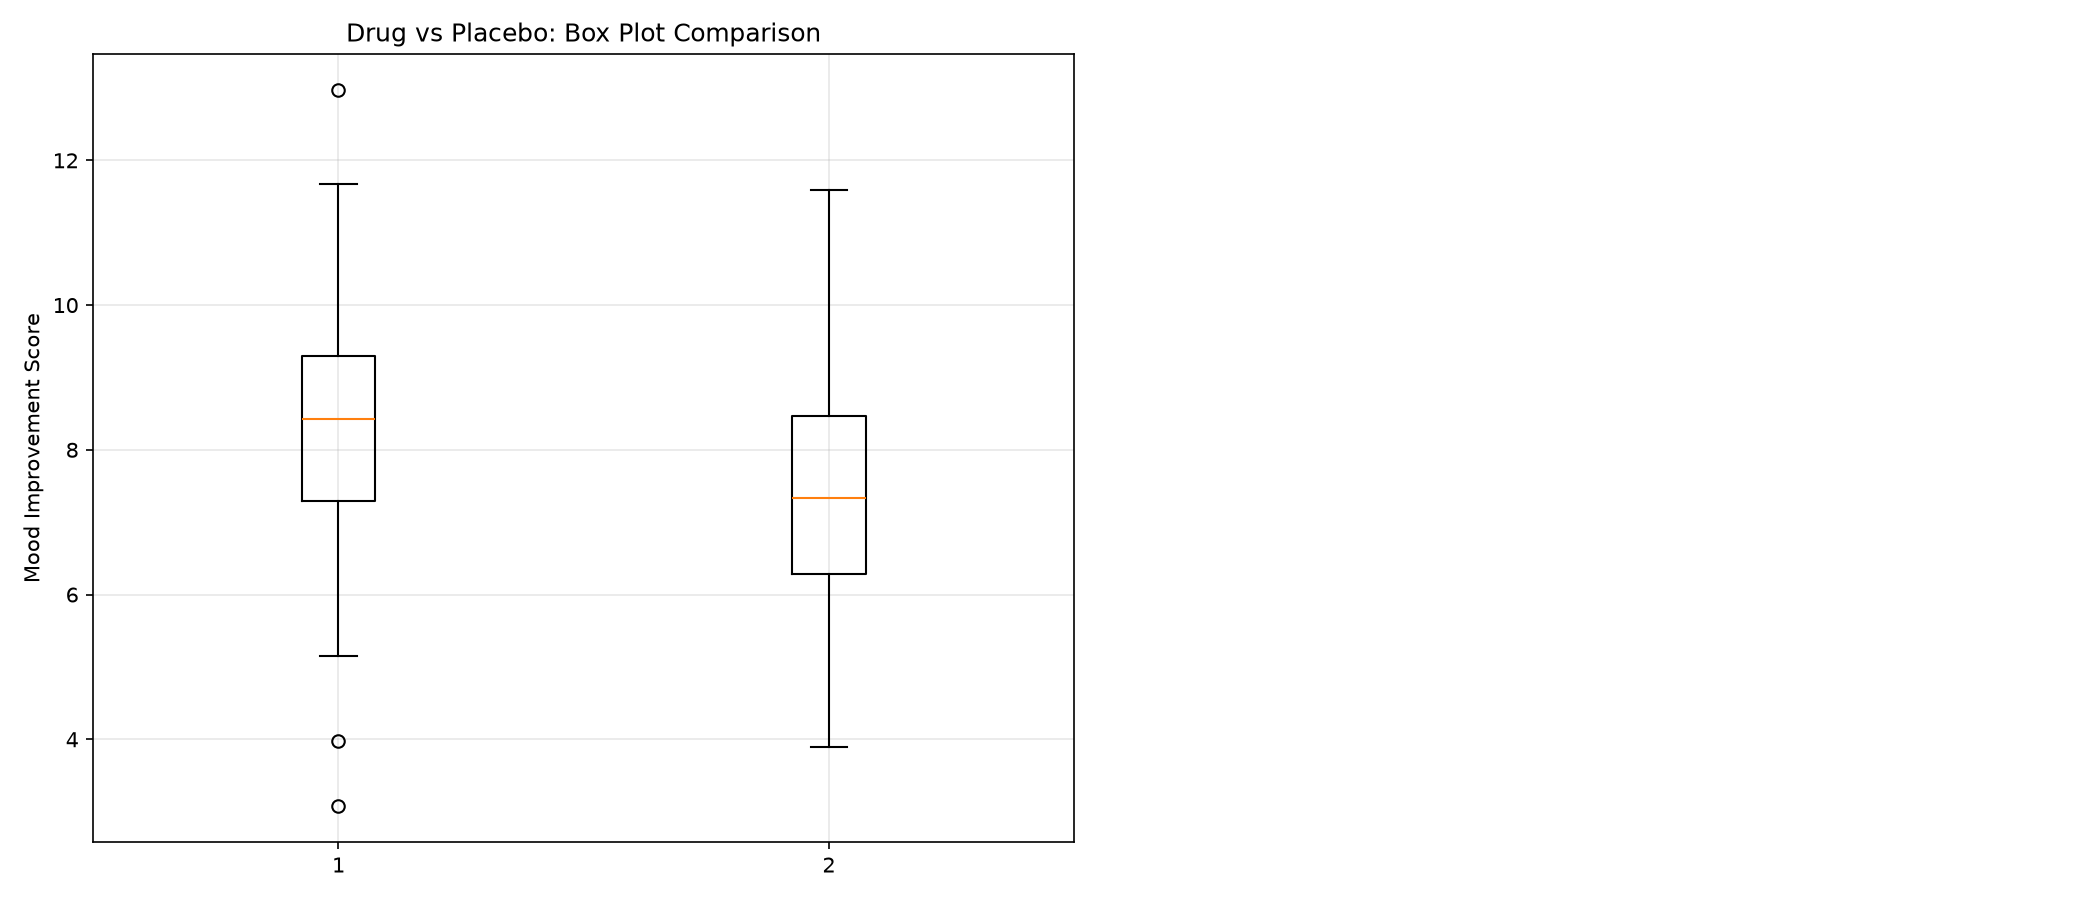
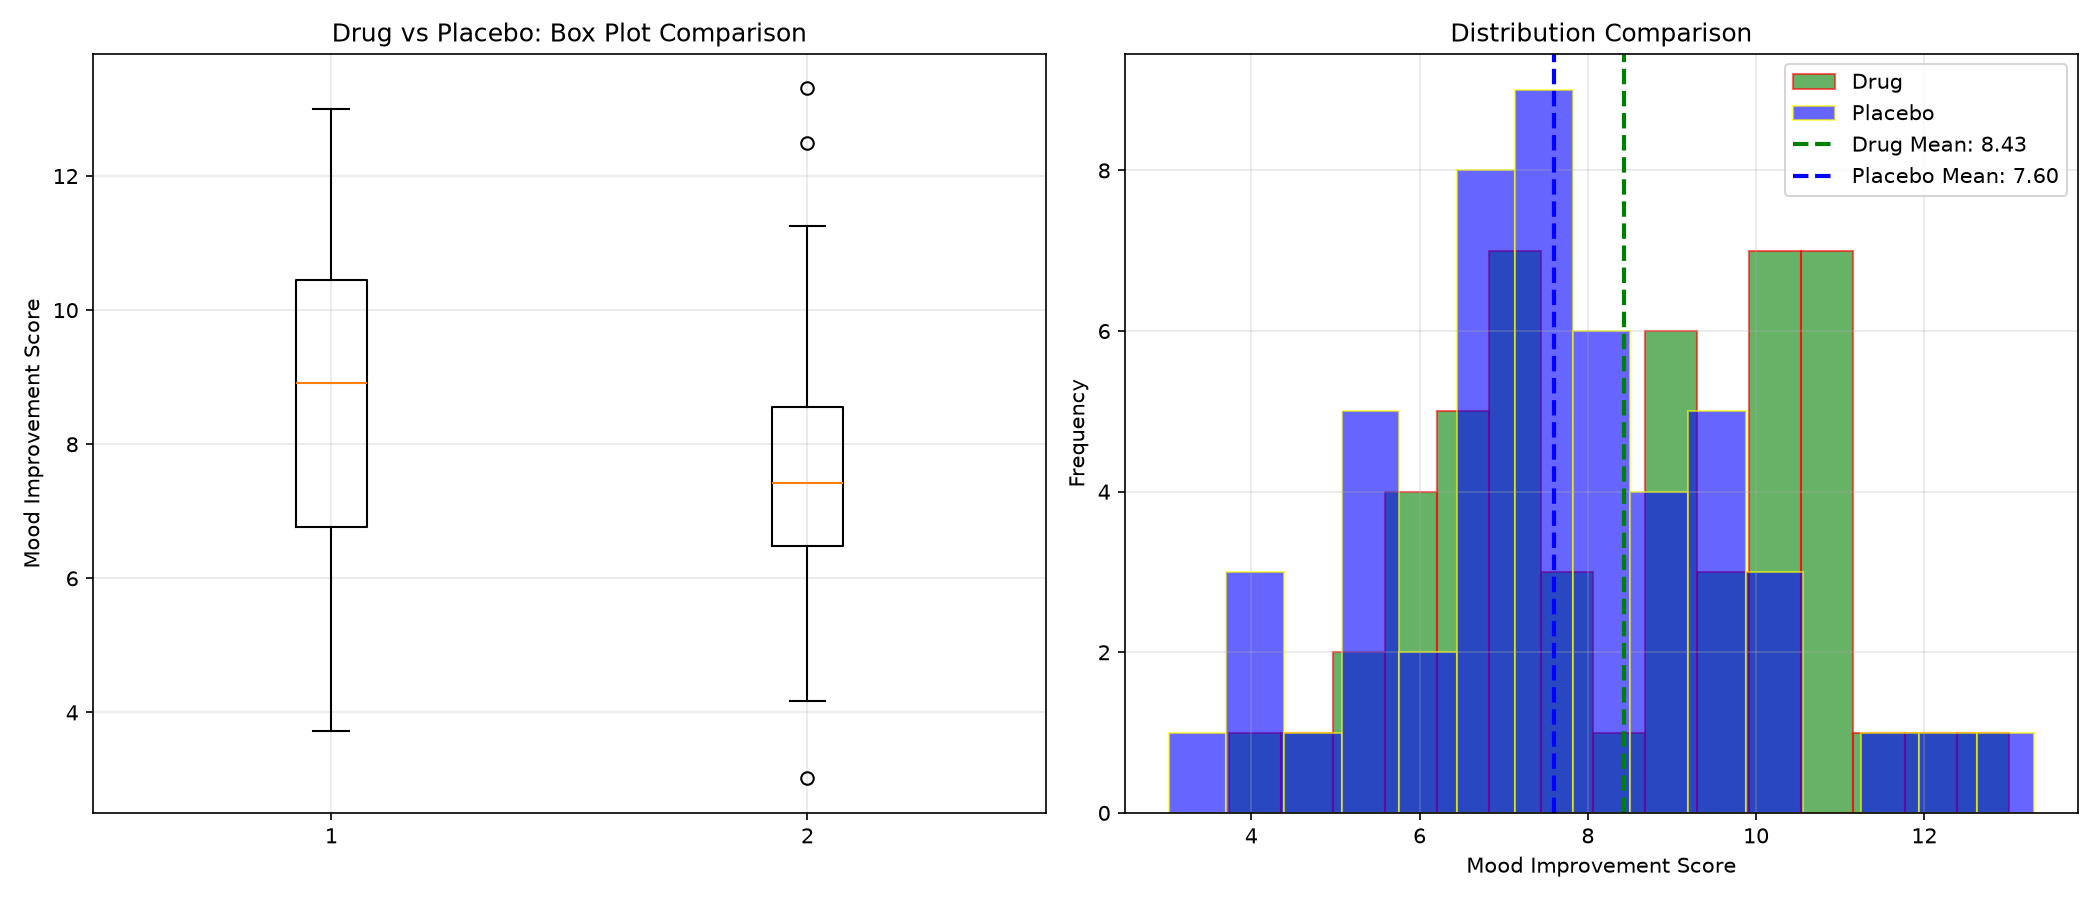
finished with p-value

diff --git a/data_science/lesson_4_statistics/lesson_2_hypothesis_my_test.py b/data_science/lesson_4_statistics/lesson_2_hypothesis_my_test.py
@@ -201,8 +201,16 @@ plt.title('Drug vs Placebo: Box Plot Comparison')
 plt.grid(True, alpha=0.3)
 
 # Plot 2: Distributions with means
-# plt.subplot(1, 2, 2)
-
+plt.subplot(1, 2, 2)
+plt.hist(drug_group, bins=15, alpha=0.6, label='Drug', color='green', edgecolor='red')
+plt.hist(placebo_group, bins=15, alpha=0.6, label='Placebo', color='blue', edgecolor='yellow')
+plt.axvline(np.mean(drug_group), color='green', linestyle='--', linewidth=2, label=f'Drug Mean: {np.mean(drug_group):.2f}')
+plt.axvline(np.mean(placebo_group), color='blue', linestyle='--', linewidth=2, label=f'Placebo Mean: {np.mean(placebo_group):.2f}')
+plt.xlabel('Mood Improvement Score')
+plt.ylabel('Frequency')
+plt.title('Distribution Comparison')
+plt.legend()
+plt.grid(True, alpha=0.3)
 
 plt.tight_layout()
 plt.savefig('/Users/andhar/desktop/my_garden_of_python/data_science/lesson_4_statistics/hyp_1_ttest.png', dpi=150)
@@ -210,18 +218,167 @@ print("✅ Visualization saved: hyp_1_ttest.png")
 plt.close()
 
 
+# ============================================================================
+# PART 8: UNDERSTANDING EFFECT SIZE
+# ============================================================================
+
+print("\n" + "=" * 81)
+print("PART 8: Effect Size (Cohen's d - Practical Significance)")
+print("=" * 81)
+
+print("""
+P-VALUE tells us: "Is the difference REAL?" (Statistical Significance)
+EFFECT SIZE tells us: "How BIG is the difference?" (Practical Significance)
+
+Example:
+- P-value = 0.001 (Very significant statistically!)
+- Cohen's d = 0.05 (But the actual difference is tiny)
+
+This happens with LARGE samples! 💡
+""")
+
+# Calculate Cohen's d
+pooled_std = np.sqrt(((len(drug_group) - 1) * np.std(drug_group, ddof=1) ** 2 + 
+                      (len(placebo_group) - 1) * np.std(placebo_group, ddof=1) ** 2) / 
+                     (len(drug_group) + len(placebo_group) - 2))
+
+cohens_d = (np.mean(drug_group) - np.mean(placebo_group)) / pooled_std
+
+print(f"\n📊 Effect Size (Cohen's d): {cohens_d:.4f}")
+
+if abs(cohens_d) < 2:
+   effect_interpretation = 'Small effect!'
+elif abs(cohens_d) < 0.5:
+   effect_interpretation = 'Small to medium effect'
+elif abs(cohens_d) < 0.8:
+   effect_interpretation = 'Medium effect'
+else:
+   effect_interpretation = 'Large effect'
+
+print(f"   Interpretation: {effect_interpretation}")
+
+print(f"""
+Remember:
+- Cohen's d = 0.2  → Small but real difference
+- Cohen's d = 0.5  → Medium difference
+- Cohen's d = 0.8  → Large difference
+
+Your effect size: {cohens_d:.4f} ({effect_interpretation})
+""")
+
+# ============================================================================
+# PART 9: TYPE I AND TYPE II ERRORS
+# ============================================================================
+
+print("\n" + "=" * 81)
+print("Part 9: The Two Types of Errors (Important!)")
+print("=" * 81)
+
+print("""
+🚨 TYPE I ERROR (False Positive - "Crying wolf!")
+   You claim the drug works (reject H₀)
+   But actually, it doesn't (H₀ is true)
+
+   The p-value threshold (0.05) is designed to limit this!
+   If you use p < 0.05, you have only 5% chance of Type I error
+
+🚨 TYPE II ERROR (False Negative - "Missing the wolf!")
+   You claim the drug doesn't work (fail to reject H₀)
+   But actually, it does work (H₁ is true)
+
+   This happens with small samples!
+   With n=20, you might miss a real effect
+
+---
+
+THE TRADEOFF:
+Make the threshold stricter (p < 0.01) → Reduce Type I error but increase Type II
+Make the threshold looser (p < 0.10) → Reduce Type II error but increase Type I
+
+Professional standard: p < 0.05 (good balance)
+Medical studies: p < 0.01 (stricter, more certain)
+Exploratory research: p < 0.10 (looser, find possibilities)
+""")
 
 
+# ============================================================================
+# PART 10: REAL WORLD CAUTION
+# ============================================================================
+
+print("\n" + "=" * 81)
+print("Part 10: Important Cautions (The Truth About P-Values)")
+print("=" * 81)
+
+print("""
+⚠ COMMON MISCONCEPTIONS:
+
+1⃣ "P-value < 0.05 means there's only 5% chance I'm wrong"
+   ❌ WRONG! It's about the probability of the DATA, not your conclusion
+
+2⃣ "Non-significant result (p > 0.05) means the effect doesn't exist"
+   ❌ WRONG! It might exist, but you need more data to detect it
+
+3⃣ "You should report only p-values"
+   ❌ WRONG! Always report effect size, confidence intervals, and sample size
+
+4⃣ "The smaller the p-value, the bigger the effect"
+   ❌ WRONG! Small p-value just means the effect is real, not how big it is
+
+---
+
+✅ THE CORRECT WAY:
+
+1. Report p-value (Is it real?)
+2. Report effect size (How big is it?)
+3. Report confidence intervals (What's the range?)
+4. Report sample size (Did we have enough data?)
+5. Check assumptions (Is the test valid?)
+""")
 
 
+# ============================================================================
+# PART 11: SAVE YOUR WORK
+# ============================================================================
 
+print("\n" + "=" * 81)
+print("===Summary===")
+print("=" * 81)
 
+summary = f"""
+🎯 WHAT YOU LEARNED:
 
+1. ✅ Null Hypothesis (H₀): Assume nothing happened
+2. ✅ Alternative Hypothesis (H₁): We want to prove something happened
+3. ✅ P-Value: Probability of the data IF null is true
+4. ✅ Statistical Significance: p < 0.05 means result is real
+5. ✅ Effect Size (Cohen's d): How big is the actual difference?
+6. ✅ Type I & II Errors: False positives and false negatives
 
+---
 
+📊 YOUR TEST RESULTS:
+   T-Statistic: {t_statistic:.4f}
+   P-Value: {p_value:.6f}
+   Cohen's d: {cohens_d:.4f}
 
+   Conclusion: {"✅ Drug works!" if p_value < 0.05 else "❌ Not proven"}
 
+---
 
+🔥 NEXT CHECKPOINT:
+   Correlation & Causation
+   - Can we say drug CAUSED the improvement?
+   - Or was it just correlation?
+"""
+
+print(summary)
+
+# Save summary to file
+with open('/Users/andhar/desktop/my_garden_of_python/data_science/lesson_4_statistics/hyp_summary.txt', 'w') as f:
+    f.write(summary)
+
+print("\n✅ CHECKPOINT 2.3.2 COMPLETE!")
+print("🙏 Om Namah Shivaya 🕉")
 
 
 
